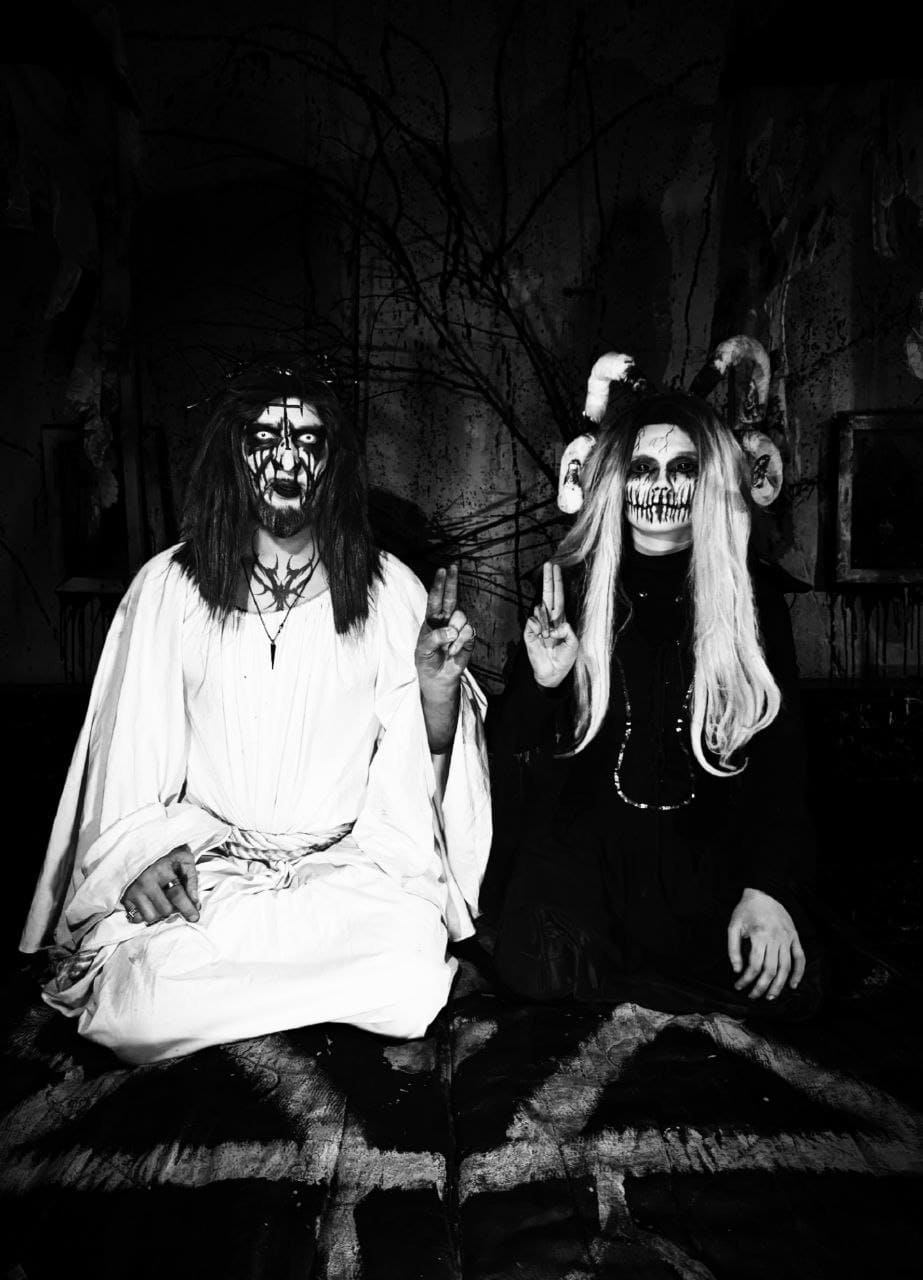
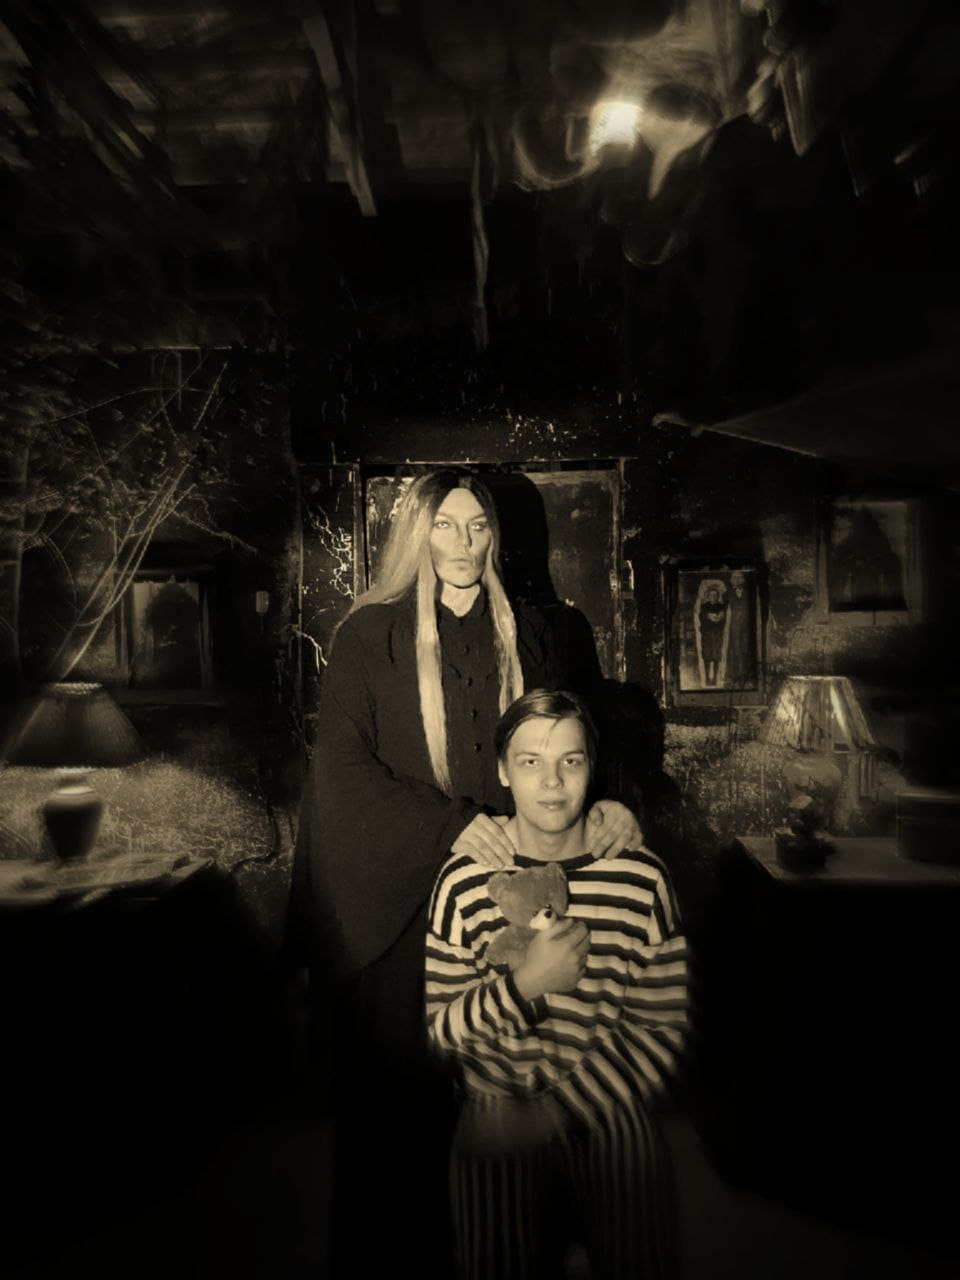
06,12,2025

diff --git a/public/index.html b/public/index.html
@@ -759,7 +759,7 @@
 
         <aside class="qm-side">
           <ul class="qm-facts">
-            <li><b>Игроки:</b> 2–12</li>
+            <li><b>Игроки:</b> 4–8</li>
             <li><b>Время:</b> 60 минут</li>
             <li><b>Возраст:</b> 16+</li>
             <li><b>Цена:</b> 4 человека 800 000, каждый доп. игрок +200 000</li>
